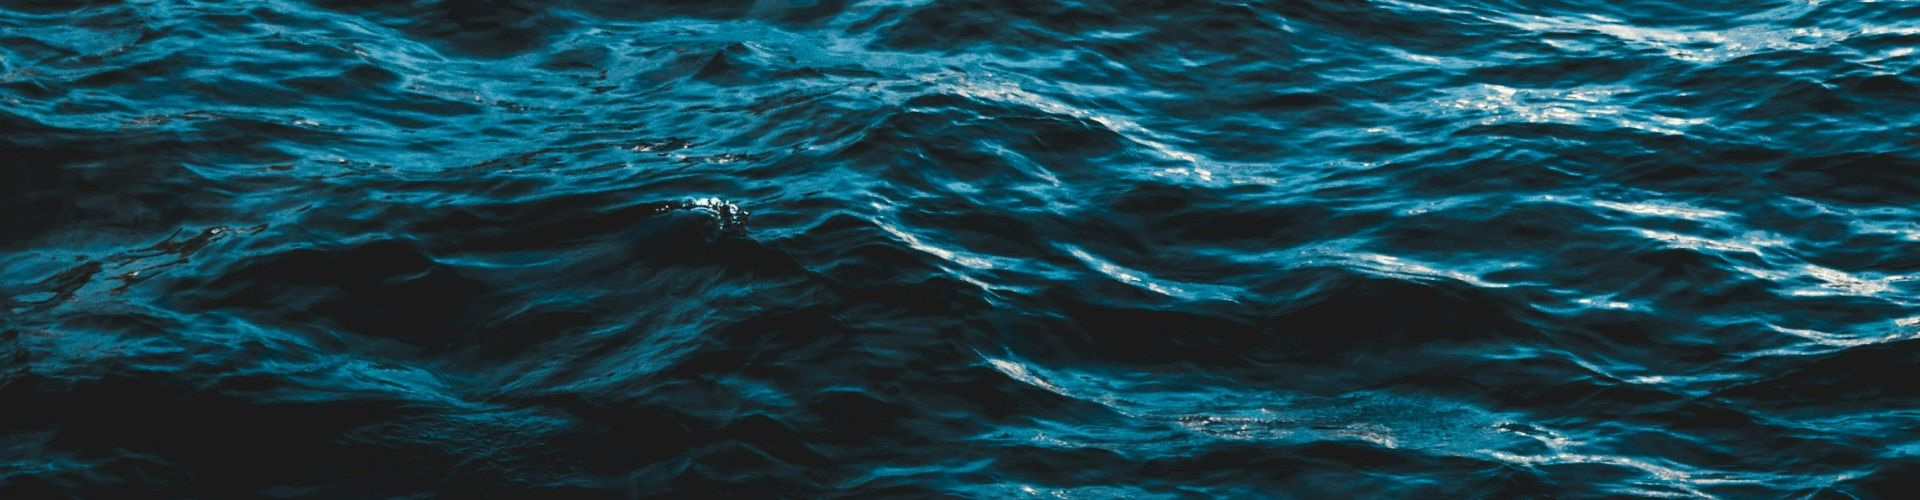
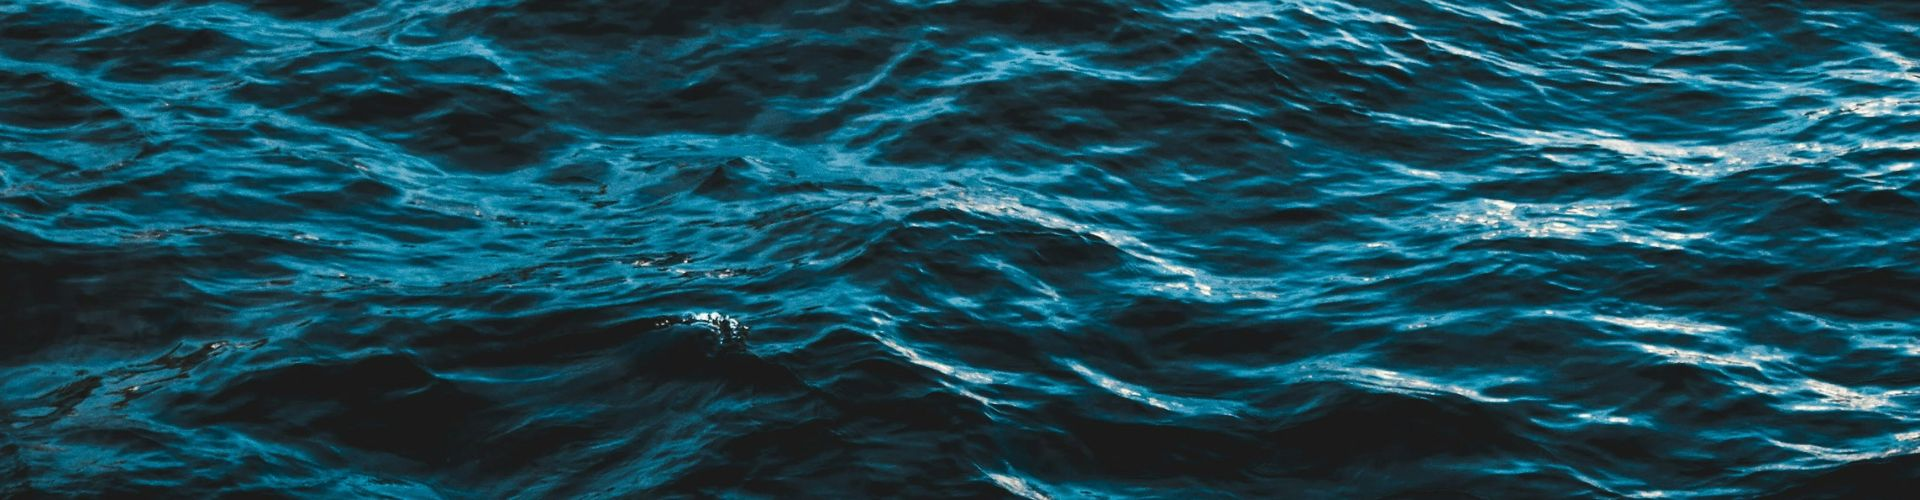
Updated header Images & Timeline Images

diff --git a/about.html b/about.html
@@ -153,7 +153,7 @@
         <!-- /.mobile-side-menu -->
         <div class="mobile-side-menu-overlay"></div>
 
-        <section class="page-header pt-120 pb-120" data-background="assets/img/bg-img/page-header-bg-5.jpg">
+        <section class="page-header pt-120 pb-120" data-background="assets/img/bg-img/page-header-bg-6.jpg">
             <div class="container">
                 <div class="page-header-content text-center">
                     <h1 class="title">About Us</h1>
@@ -238,7 +238,7 @@
                     <div class="ag-timeline-card_item">
                       <div class="ag-timeline-card_inner">
                         <div class="ag-timeline-card_img-box">
-                          <img src="https://raw.githubusercontent.com/SochavaAG/example-mycode/master/pens/timeline/images/img-13.png" class="ag-timeline-card_img" width="640" height="360" />
+                          <img src="assets/img/images/timeline/founder.jpg" class="ag-timeline-card_img" width="640" height="360" />
                         </div>
                         <div class="ag-timeline-card_info">
                           <div class="ag-timeline-card_title">Founder Joins Bhagwati Shipping</div>
@@ -263,7 +263,7 @@
                     <div class="ag-timeline-card_item">
                       <div class="ag-timeline-card_inner">
                         <div class="ag-timeline-card_img-box">
-                          <img src="https://raw.githubusercontent.com/SochavaAG/example-mycode/master/pens/timeline/images/img-12.png" class="ag-timeline-card_img" width="640" height="360" alt="" />
+                          <img src="assets/img/images/timeline/Refer-Container.jpg" class="ag-timeline-card_img" width="640" height="360" alt="" />
                         </div>
                         <div class="ag-timeline-card_info">
                           <div class="ag-timeline-card_title">Specialization in Refer Container Cargo</div>
@@ -288,7 +288,7 @@
                     <div class="ag-timeline-card_item">
                       <div class="ag-timeline-card_inner">
                         <div class="ag-timeline-card_img-box">
-                          <img src="https://raw.githubusercontent.com/SochavaAG/example-mycode/master/pens/timeline/images/img-11.png" class="ag-timeline-card_img" width="640" height="360" alt="" />
+                          <img src="assets/img/images/timeline/Old-Machinery.jpg" class="ag-timeline-card_img" width="640" height="360" alt="" />
                         </div>
                         <div class="ag-timeline-card_info">
                           <div class="ag-timeline-card_title">Management of Unused & Old Cargo</div>
@@ -313,7 +313,7 @@
                     <div class="ag-timeline-card_item">
                       <div class="ag-timeline-card_inner">
                         <div class="ag-timeline-card_img-box">
-                          <img src="https://raw.githubusercontent.com/SochavaAG/example-mycode/master/pens/timeline/images/img-10.png" class="ag-timeline-card_img" width="640" height="360" alt="" />
+                          <img src="assets/img/images/timeline/Special-Import.jpg" class="ag-timeline-card_img" width="640" height="360" alt="" />
                         </div>
                         <div class="ag-timeline-card_info">
                           <div class="ag-timeline-card_title">Handling Special Import Shipment</div>
@@ -338,7 +338,7 @@
                     <div class="ag-timeline-card_item">
                       <div class="ag-timeline-card_inner">
                         <div class="ag-timeline-card_img-box">
-                          <img src="https://raw.githubusercontent.com/SochavaAG/example-mycode/master/pens/timeline/images/img-9.png" class="ag-timeline-card_img" width="640" height="360" alt="" />
+                          <img src="assets/img/images/timeline/co-founder.jpg" class="ag-timeline-card_img" width="640" height="360" alt="" />
                         </div>
                         <div class="ag-timeline-card_info">
                           <div class="ag-timeline-card_title">Co-Founding AS Clearing & Logistics (ASCL)</div>
@@ -363,7 +363,7 @@
                     <div class="ag-timeline-card_item">
                       <div class="ag-timeline-card_inner">
                         <div class="ag-timeline-card_img-box">
-                          <img src="https://raw.githubusercontent.com/SochavaAG/example-mycode/master/pens/timeline/images/img-8.png" class="ag-timeline-card_img" width="640" height="360" alt="" />
+                          <img src="assets/img/images/timeline/Licensed-Custom.jpg" class="ag-timeline-card_img" width="640" height="360" alt="" />
                         </div>
                         <div class="ag-timeline-card_info">
                           <div class="ag-timeline-card_title">Licensed Custom Broker</div>
@@ -388,7 +388,7 @@
                     <div class="ag-timeline-card_item">
                       <div class="ag-timeline-card_inner">
                         <div class="ag-timeline-card_img-box">
-                          <img src="https://raw.githubusercontent.com/SochavaAG/example-mycode/master/pens/timeline/images/img-7.png" class="ag-timeline-card_img" width="640" height="360" alt="" />
+                          <img src="assets/img/images/timeline/Shipments-RCF.jpg" class="ag-timeline-card_img" width="640" height="360" alt="" />
                         </div>
                         <div class="ag-timeline-card_info">
                           <div class="ag-timeline-card_title">Successful Import Shipments for RCF Ltd</div>
@@ -413,7 +413,7 @@
                     <div class="ag-timeline-card_item">
                       <div class="ag-timeline-card_inner">
                         <div class="ag-timeline-card_img-box">
-                          <img src="https://raw.githubusercontent.com/SochavaAG/example-mycode/master/pens/timeline/images/img-6.png" class="ag-timeline-card_img" width="640" height="360" alt="" />
+                          <img src="assets/img/images/timeline/Expertise-EPCG.jpg" class="ag-timeline-card_img" width="640" height="360" alt="" />
                         </div>
                         <div class="ag-timeline-card_info">
                           <div class="ag-timeline-card_title">Expertise in EPCG Scheme</div>
@@ -438,7 +438,7 @@
                     <div class="ag-timeline-card_item">
                       <div class="ag-timeline-card_inner">
                         <div class="ag-timeline-card_img-box">
-                          <img src="https://raw.githubusercontent.com/SochavaAG/example-mycode/master/pens/timeline/images/img-5.png" class="ag-timeline-card_img" width="640" height="360" alt="" />
+                          <img src="assets/img/images/timeline/Diverse-Cargo.jpg" class="ag-timeline-card_img" width="640" height="360" alt="" />
                         </div>
                         <div class="ag-timeline-card_info">
                           <div class="ag-timeline-card_title">Diverse Cargo Handling</div>
@@ -463,7 +463,7 @@
                     <div class="ag-timeline-card_item">
                       <div class="ag-timeline-card_inner">
                         <div class="ag-timeline-card_img-box">
-                          <img src="https://raw.githubusercontent.com/SochavaAG/example-mycode/master/pens/timeline/images/img-4.png" class="ag-timeline-card_img" width="640" height="360" alt="" />
+                          <img src="assets/img/images/timeline/Operational-Excellence.jpg" class="ag-timeline-card_img" width="640" height="360" alt="" />
                         </div>
                         <div class="ag-timeline-card_info">
                           <div class="ag-timeline-card_title">Operational Excellence in ASCL</div>
@@ -488,7 +488,7 @@
                     <div class="ag-timeline-card_item">
                       <div class="ag-timeline-card_inner">
                         <div class="ag-timeline-card_img-box">
-                          <img src="https://raw.githubusercontent.com/SochavaAG/example-mycode/master/pens/timeline/images/img-3.png" class="ag-timeline-card_img" width="640" height="360" alt="" />
+                          <img src="assets/img/images/timeline/ODC-Cargo.jpg" class="ag-timeline-card_img" width="640" height="360" alt="" />
                         </div>
                         <div class="ag-timeline-card_info">
                           <div class="ag-timeline-card_title">Handling Complex ODC Cargo</div>
@@ -513,7 +513,7 @@
                     <div class="ag-timeline-card_item">
                       <div class="ag-timeline-card_inner">
                         <div class="ag-timeline-card_img-box">
-                          <img src="https://raw.githubusercontent.com/SochavaAG/example-mycode/master/pens/timeline/images/img-2.png" class="ag-timeline-card_img" width="640" height="360" />
+                          <img src="assets/img/images/timeline/Reestablishment-IZU.jpg" class="ag-timeline-card_img" width="640" height="360" />
                         </div>
                         <div class="ag-timeline-card_info">
                           <div class="ag-timeline-card_title">Reestablishment of IZU Shipping & Logistics</div>

diff --git a/index-3.html b/index-3.html
@@ -868,7 +868,8 @@
                                 quisque orci lectus sed nulla. amet, consectetur adipiscing Lorem ipsum dolor sit amet,
                                 consectetur adipiscing elit. In eu rhoncus urna facilisis quisque orci lectus sed nulla.
                                 amet, consectetur adipiscing In eu rhoncus urna facilisis quisque orci lectus sed nulla.
-                                amet, consectetur adipiscing Lorem ipsum .</p>
+                                amet, consectetur adipiscing Lorem ipsum .
+                            </p>
                             <h3 class="author">John Smith <span>CTO of KLM</span></h3>
                             <div class="arrow"></div>
                             <div class="author-img"><img src="assets/img/images/author-img-2.png" alt="author"></div>

diff --git a/service-details.html b/service-details.html
@@ -152,7 +152,7 @@
         <!-- /.mobile-side-menu -->
         <div class="mobile-side-menu-overlay"></div>
 
-        <section class="page-header pt-120 pb-120" data-background="assets/img/bg-img/page-header-bg.jpg">
+        <section class="page-header pt-120 pb-120" data-background="assets/img/bg-img/page-header-bg-4.jpg">
             <div class="container">
                 <div class="page-header-content text-center">
                     <h1 class="title">Service Details</h1>

diff --git a/special-page.html b/special-page.html
@@ -153,7 +153,7 @@
         <!-- /.mobile-side-menu -->
         <div class="mobile-side-menu-overlay"></div>
 
-        <section class="page-header pt-120 pb-120" data-background="assets/img/bg-img/page-header-bg.jpg">
+        <section class="page-header pt-120 pb-120" data-background="assets/img/bg-img/page-header-bg-3.jpg">
             <div class="container">
                 <div class="page-header-content text-center">
                     <h1 class="title">special-tools</h1>

diff --git a/contact.html b/contact.html
@@ -152,7 +152,7 @@
         <!-- /.mobile-side-menu -->
         <div class="mobile-side-menu-overlay"></div>
 
-        <section class="page-header pt-120 pb-120" data-background="assets/img/bg-img/page-header-bg-1.jpg">
+        <section class="page-header pt-120 pb-120" data-background="assets/img/bg-img/page-header-bg-8.jpg">
             <div class="container">
                 <div class="page-header-content text-center">
                     <h1 class="title">Contact Us</h1>

diff --git a/blog-grid.html b/blog-grid.html
@@ -152,7 +152,7 @@
         <!-- /.mobile-side-menu -->
         <div class="mobile-side-menu-overlay"></div>
 
-        <section class="page-header pt-120 pb-120" data-background="assets/img/bg-img/page-header-bg-2.jpg">
+        <section class="page-header pt-120 pb-120" data-background="assets/img/bg-img/page-header-bg-5.jpg">
             <div class="container">
                 <div class="page-header-content text-center">
                     <h1 class="title">Blog Grid</h1>

diff --git a/error.html b/error.html
@@ -152,7 +152,7 @@
         <!-- /.mobile-side-menu -->
         <div class="mobile-side-menu-overlay"></div>
 
-        <section class="page-header pt-120 pb-120" data-background="assets/img/bg-img/page-header-bg.jpg">
+        <section class="page-header pt-120 pb-120" data-background="assets/img/bg-img/page-header-bg-9.jpg">
             <div class="container">
                 <div class="page-header-content text-center">
                     <h1 class="title">Error Page</h1>

diff --git a/portfolio.html b/portfolio.html
@@ -152,7 +152,7 @@
         <!-- /.mobile-side-menu -->
         <div class="mobile-side-menu-overlay"></div>
 
-        <section class="page-header pt-120 pb-120" data-background="assets/img/bg-img/page-header-bg.jpg">
+        <section class="page-header pt-120 pb-120" data-background="assets/img/bg-img/page-header-bg-2.jpg">
             <div class="container">
                 <div class="page-header-content text-center">
                     <h1 class="title">Portfolio</h1>

diff --git a/service.html b/service.html
@@ -152,7 +152,7 @@
     <!-- /.mobile-side-menu -->
     <div class="mobile-side-menu-overlay"></div>
 
-    <section class="page-header pt-120 pb-120" data-background="assets/img/bg-img/page-header-bg-4.jpg">
+    <section class="page-header pt-120 pb-120" data-background="assets/img/bg-img/page-header-bg-7.jpg">
         <div class="container">
             <div class="page-header-content text-center">
                 <h1 class="title">Services</h1>
